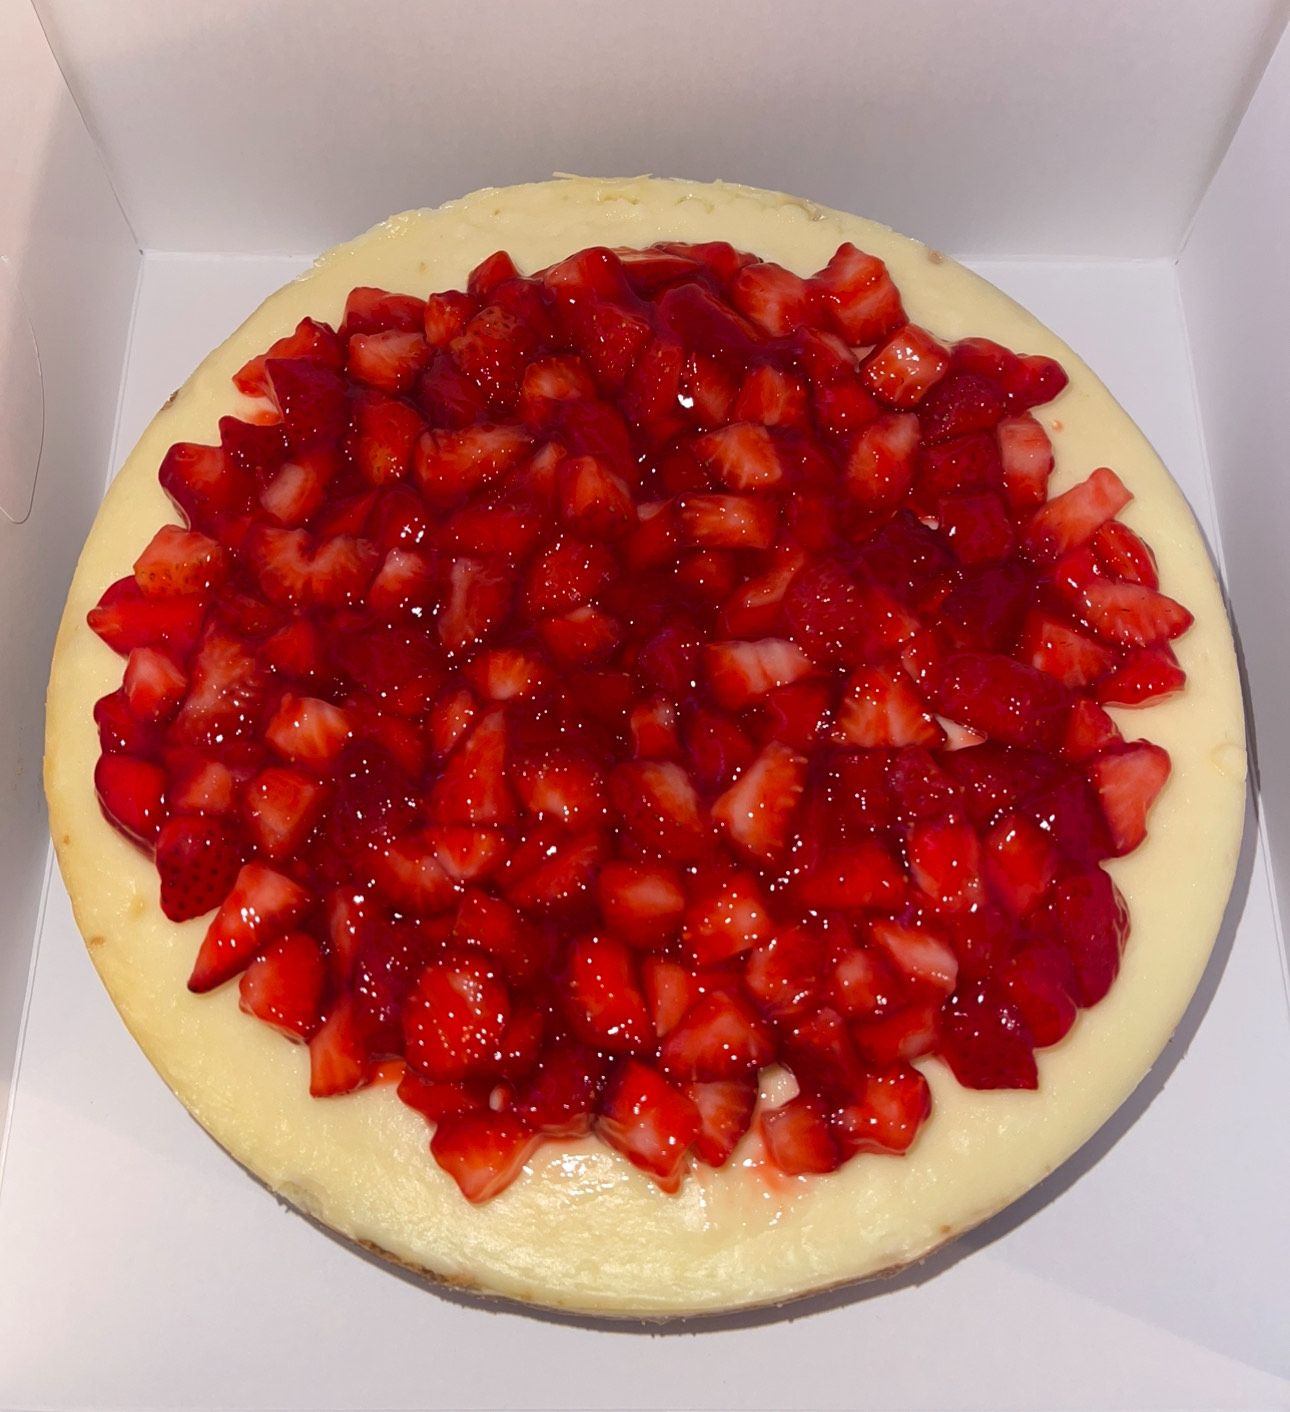
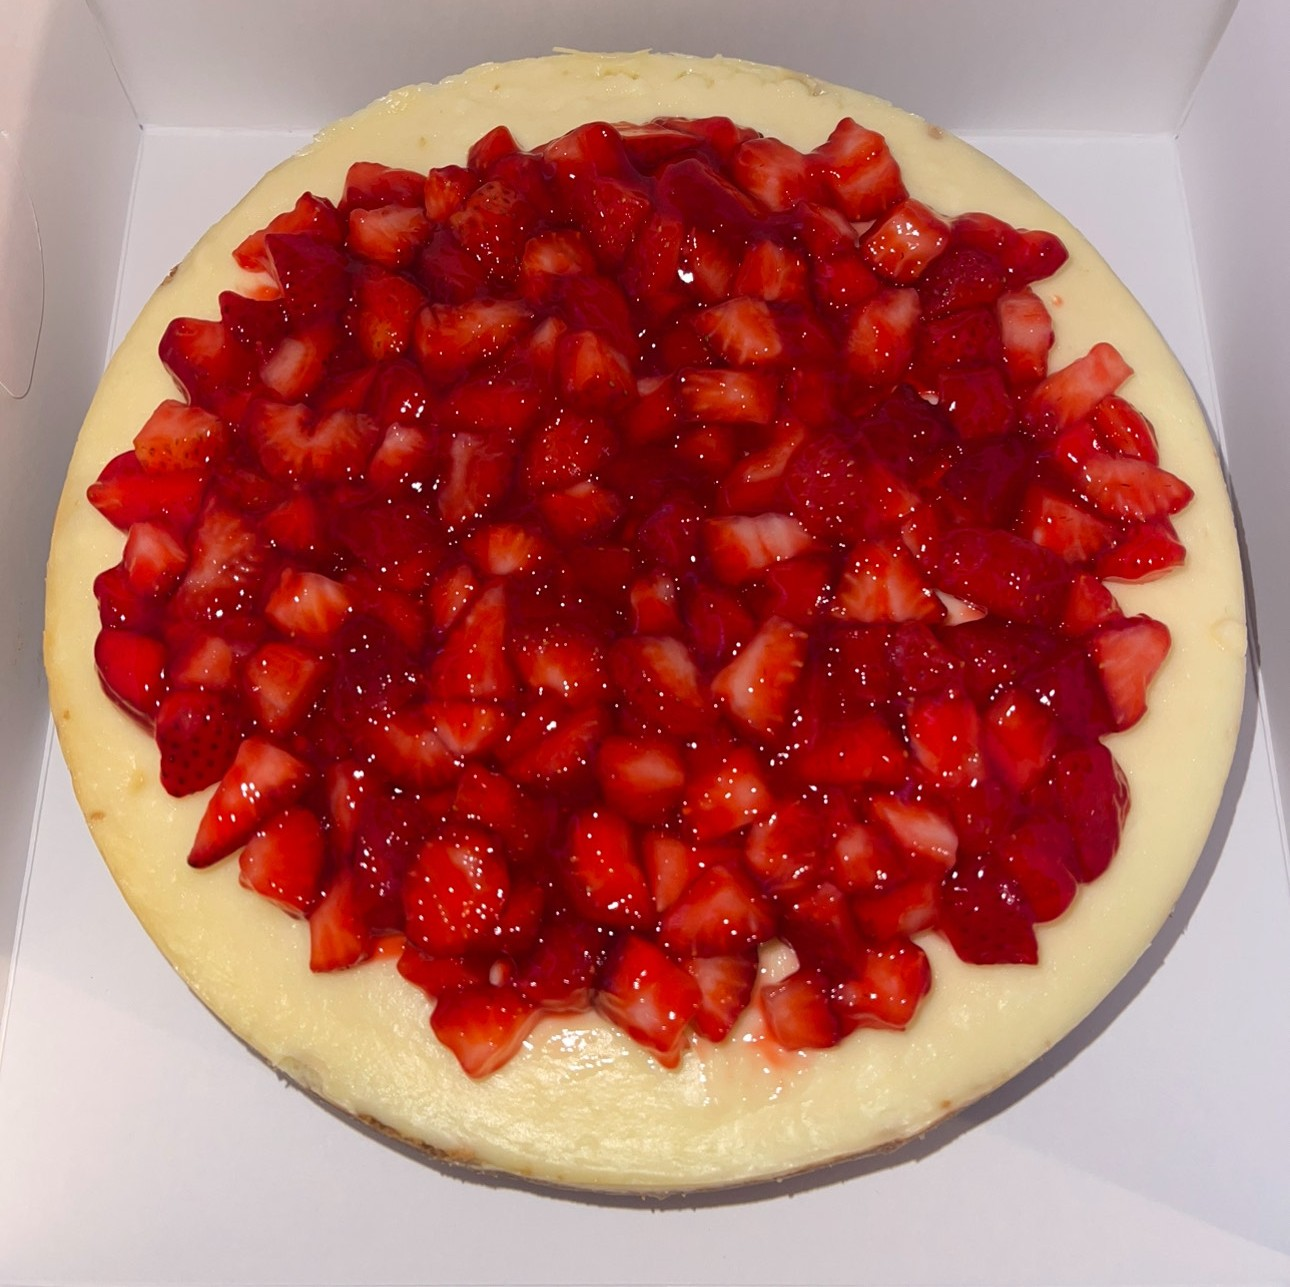
Newest step

diff --git a/Baked By Alyssa-Chocolate Page.html b/Baked By Alyssa-Chocolate Page.html
@@ -28,10 +28,10 @@
 </div>
 	
 <div class="row">
-	<div class="column_25">
+	<div class="column_33">
 		<div class="main_container">
 		<div class="product">
-			<img class="menuImage" src="Images/cake-pops.jpeg" width="100%" alt="">
+			<img class="menuImage" src="Images/sea pops.jpg" width="100%" alt="">
 			<div class="product_desc">
 				<h3>Chocolate-covered Cakepops:</h3>
 				<p>$35&nbsp;per dozen</p>
@@ -46,10 +46,10 @@
 		</div>
 	</div>
 	</div>	
-	<div class="column_25">
+	<div class="column_33">
 		<div class="main_container">
 		<div class="product">
-			<img class="menuImage" src="Images/choco strawberries.jpeg" width="100%" alt="">
+			<img class="menuImage" src="Images/dino berries.jpg" width="100%" alt="">
 			<div class="product_desc">
 				<h3>Chocolate covered Strawberries:</h3>
 				<p>$35&nbsp;per dozen</p>
@@ -64,10 +64,10 @@
 		</div>
 	</div>
 	</div>	
-	<div class="column_25">
+	<div class="column_33">
 		<div class="main_container">
 		<div class="product">
-			<img class="menuImage" src="Images/Choco covered oreos.jpeg" width="100%" alt="">
+			<img class="menuImage" src="Images/halloween oreos.jpg" width="100%" alt="">
 			<div class="product_desc">
 				<h3>Chocolate-covered Oreos:</h3>
 				<p>$30&nbsp;per dozen</p>
@@ -82,10 +82,14 @@
 		</div>
 	</div>
 	</div>	
-	<div class="column_25">
+		
+</div>
+	
+<div class="row">
+	<div class="column_33">
 		<div class="main_container">
 		<div class="product">
-			<img class="menuImage" src="Images/pink-blue pretzels.jpeg" width="100%" alt="">
+			<img class="menuImage" src="Images/stary pretzels.jpg" width="100%" alt="">
 			<div class="product_desc">
 				<h3>Chocolate-covered Pretzels:</h3>
 				<p>$30&nbsp;per dozen</p>
@@ -99,14 +103,11 @@
 			</div>
 		</div>
 	</div>
-	</div>	
-</div>
-	
-<div class="row">
-	<div class="column_25">
+	</div>
+	<div class="column_33">
 		<div class="main_container">
 		<div class="product">
-			<img class="menuImage" src="Images/choco ricecrispies.jpeg" width="100%" alt="">
+			<img class="menuImage" src="Images/stary ricecrispies.jpg" width="100%" alt="">
 			<div class="product_desc">
 				<h3>Chocolate-covered Rice Krispies: </h3>
 				<p>$30 per dozen</p>
@@ -121,7 +122,7 @@
 		</div>
 	</div>
 	</div>	
-	<div class="column_25">
+	<div class="column_33">
 		<div class="main_container">
 		<div class="product">
 			<img class="menuImage" src="Images/boba cakesicle.jpeg" width="100%" alt="">
@@ -139,49 +140,12 @@
 		</div>
 	</div>
 	</div>	
-	<div class="column_25">
-		<div class="main_container">
-		<div class="product">
-			<img class="menuImage" src="Images/breakable heart.jpeg" width="100%" alt="">
-			<div class="product_desc">
-				<h3>Breakable Heart: </h3>
-				<p>$50 (with/six berries included)</p>
-				<div class="rating">
-					<span class="fa fa-star"></span>
-					<span class="fa fa-star"></span>
-					<span class="fa fa-star"></span>
-					<span class="fa fa-star"></span>
-					<span class="fa fa-star"></span>
-				</div>
-			</div>
-		</div>
-	</div>
-	</div>	
-	<div class="column_25">
-		<div class="main_container">
-		<div class="product">
-			<img class="menuImage" src="Images/hello kitty breakable heart.jpeg" width="100%" alt="">
-			<div class="product_desc">
-				<h3>Breakable Hello Kitty: </h3>
-				<p>$60</p>
-				<div class="rating">
-					<span class="fa fa-star"></span>
-					<span class="fa fa-star"></span>
-					<span class="fa fa-star"></span>
-					<span class="fa fa-star"></span>
-					<span class="fa fa-star"></span>
-				</div>
-			</div>
-		</div>
-	</div>
-	</div>	
+	
+	
 </div>
 	
-<footer><center>Baked By Alyssa© 2024 all rights reserved. 
-
-Privacy policy
-|
-Terms and Conditions</center>
+<footer class="footer"><center><p><br>
+BakedByAlyssaaa ©2025 all rights reserved.</p> <img src="Images/current_logo-removebg-preview.png" width="10%" alt=""> </center>
 </footer>	
 </body>
 </html>

diff --git a/index.html b/index.html
@@ -193,14 +193,8 @@ setInterval(changeImage, 3000);
 </div>
 	
 	
-<footer class="footer" style="background: #BBBBBB"><center><p><br>
-Baked By Alyssa© 2024 all rights reserved. 
-
-Privacy policy
-|
-Terms and Conditions</p>
-	<br>
-	<p>lori ipsum, lori ipsum, lori ipsum, lori ipsum, lori ipsum, lori ipsum, lori ipsum, lori ipsum, lori ipsum, lori ipsum, lori ipsum, lori ipsum, lori ipsum, lori ipsum, lori ipsum, lori ipsum, lori ipsum, </p></center>
+<footer class="footer"><center><p><br>
+BakedByAlyssaaa @2025 all rights reserved.</p><img src="Images/current_logo-removebg-preview.png" width="10%" alt=""> </center>
 </footer>
  <style>
         .note {
@@ -215,12 +209,13 @@ Terms and Conditions</p>
                 transform: translateY(-100vh); 
             }
         }
+	 
     </style>
     <script>
         function createNote() {
             const note = document.createElement("div");
             note.classList.add("note");
-            note.textContent = "🎂"; // Music note emoji
+            note.textContent = "Cake"; // Music note emoji
 
             // Randomly choose between left and right side
             const isLeftSide = Math.random() < 0.5; // 50% chance for left or right
@@ -243,7 +238,7 @@ Terms and Conditions</p>
         }
 
         // Create notes at regular intervals
-        setInterval(createNote, 200); // Adjust interval for more/less notes
+        setInterval(createNote, 1000); // Adjust interval for more/less notes
     </script>
 </body>
 </html>

diff --git a/Baked By Alyssa-Baked Page.html b/Baked By Alyssa-Baked Page.html
@@ -109,7 +109,7 @@
 	<div class="column_25">
 		<div class="main_container">
 		<div class="product">
-			<img class="menuImage" src="Images/2_topping churocheesecake.jpeg" width="100%" alt="">
+			<img class="menuImage" src="Images/churo cake.jpg" width="100%" alt="">
 			<div class="product_desc">
 				<h3>Churro Cheesecake w/ two toppings: </h3>
 				<p>$45</p>
@@ -127,7 +127,7 @@
 	<div class="column_25">
 		<div class="main_container">
 		<div class="product">
-			<img class="menuImage" src="Images/strawberry cheesecake 2.jpeg" width="100%" alt="">
+			<img class="menuImage" src="Images/strawberry cheesecake.jpeg" width="100%" alt="">
 			<div class="product_desc">
 				<h3>10-inch cheesecake: </h3>
 				<p>$50 (flavor/Toppings included)</p>
@@ -145,7 +145,7 @@
 	<div class="column_25">
 		<div class="main_container">
 		<div class="product">
-			<img class="menuImage" src="Images/mini cheesecake cups.jpeg" width="100%" alt="">
+			<img class="menuImage" src="Images/cheesecake cups.jpg" width="100%" alt="">
 			<div class="product_desc">
 				<h3>Mini Cheesecake: </h3>
 				<p>$40 (flavor/Toppings included)</p>
@@ -262,11 +262,8 @@
 	</div>	
 </div>
 	
-<footer><center>Baked By Alyssa© 2024 all rights reserved. 
-
-Privacy policy
-|
-Terms and Conditions</center>
-</footer>	
+<footer class="footer"><center><p><br>
+BakedByAlyssaaa ©2025 all rights reserved.</p> <img src="Images/current_logo-removebg-preview.png" width="10%" alt=""> </center>
+</footer>
 </body>
 </html>

diff --git a/Baked By Alyssa-About Page.html b/Baked By Alyssa-About Page.html
@@ -27,7 +27,7 @@
 <div class="containerAbout">
 	<section class="about">
 		<div class="aboutImage">
-			<img src="Images/Alyssa.jpg" alt="">
+			<img src="Images/newer sister.jpg" alt="">
 		</div>
 		<div class="aboutText">
 			<h2>A delicious treat no matter the price range!</h2>
@@ -37,14 +37,8 @@
 	</section>
 </div>
 	
-<footer class="footer" style="background: #BBBBBB"><center><p><br>
-Baked By Alyssa© 2024 all rights reserved. 
-
-Privacy policy
-|
-Terms and Conditions</p>
-	<br>
-	<p>lori ipsum, lori ipsum, lori ipsum, lori ipsum, lori ipsum, lori ipsum, lori ipsum, lori ipsum, lori ipsum, lori ipsum, lori ipsum, lori ipsum, lori ipsum, lori ipsum, lori ipsum, lori ipsum, lori ipsum, </p></center>
-</footer>	
+<footer class="footer"><center><p><br>
+BakedByAlyssaaa ©2025 all rights reserved.</p> <img src="Images/current_logo-removebg-preview.png" width="10%" alt=""></center>
+</footer>
 </body>
 </html>

diff --git a/Baked By Alyssa-Contact Page.html b/Baked By Alyssa-Contact Page.html
@@ -118,10 +118,8 @@
 	</section>
 
 <br>
-<footer><center>Baked By Alyssa© 2024 all rights reserved. 
-Privacy policy
-|
-Terms and Conditions</center>
+<footer class="footer"><center><p><br>
+BakedByAlyssaaa ©2025 all rights reserved.</p> <img src="Images/current_logo-removebg-preview.png" width="10%" alt=""> </center>
 </footer>	
 </body>
 </html>
